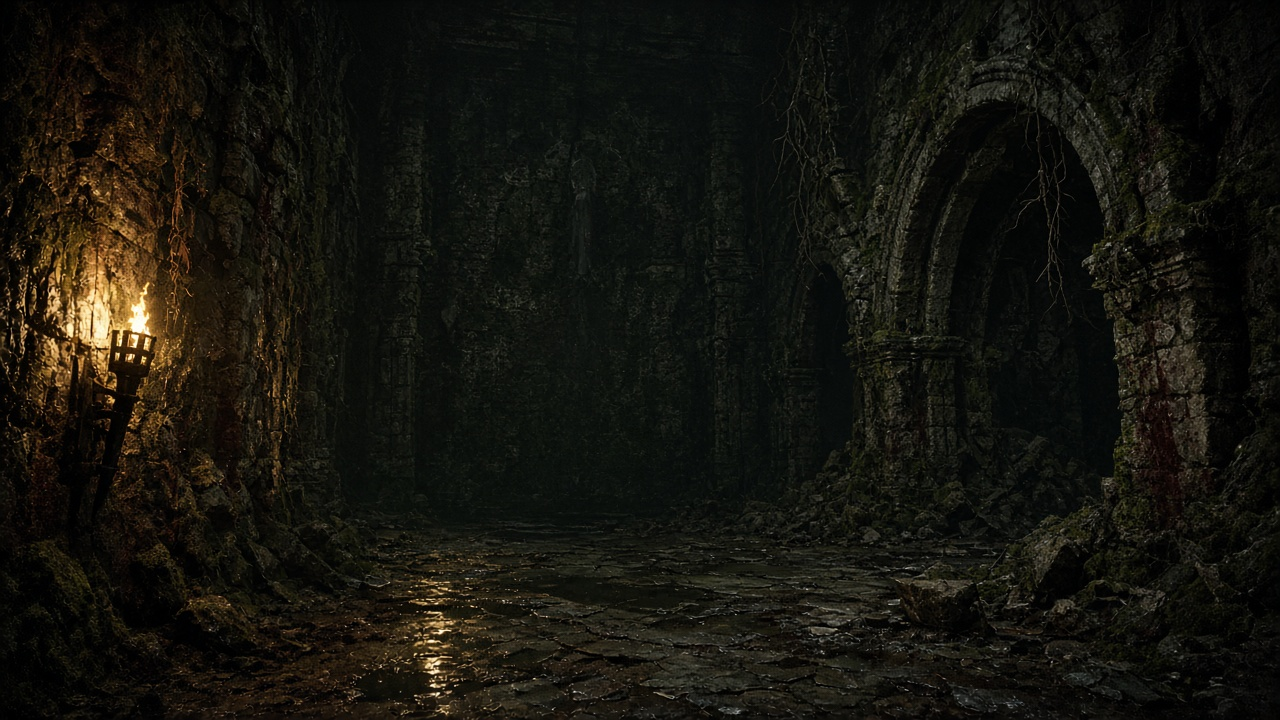
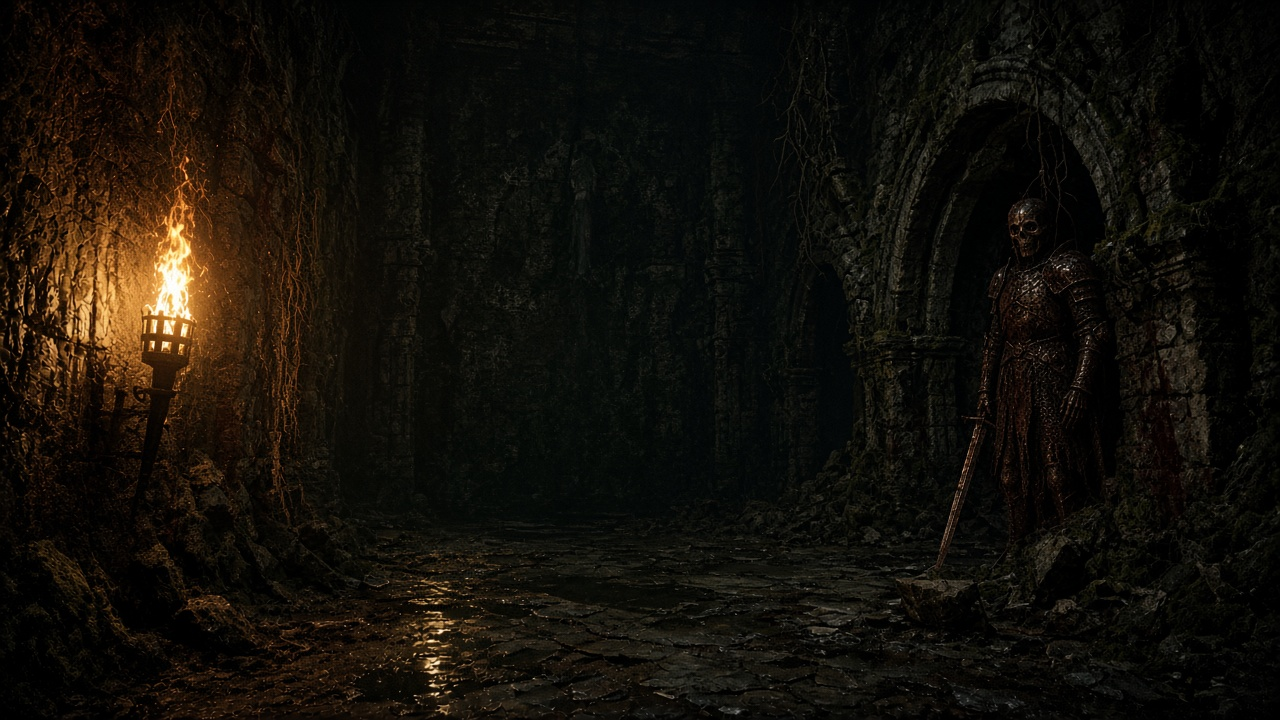
Put a knight in the chapel dark and make the torch live.
Flicker, wash, embers, smoke, and a glint in the sockets.

diff --git a/Hexwrought/styles.css b/Hexwrought/styles.css
@@ -22,10 +22,14 @@ body {
 }
 
 .world,
+.torch,
+.eyes,
 .grit,
 .scum,
 .vignette,
+.smoke,
 .embers,
+.dust,
 .corners {
   pointer-events: none;
   position: fixed !important;
@@ -36,10 +40,59 @@ body {
 .world {
   z-index: 0;
   background:
-    linear-gradient(180deg, rgba(8,9,6,.12) 0%, rgba(6,7,5,.35) 70%, rgba(5,6,4,.88) 100%),
-    url("./hexwrought-grounds.jpg") center 20% / cover no-repeat;
+    linear-gradient(180deg, rgba(8,9,6,.08) 0%, rgba(6,7,5,.22) 70%, rgba(5,6,4,.72) 100%),
+    url("./hexwrought-grounds.jpg") center 28% / cover no-repeat;
   background-attachment: fixed;
-  filter: contrast(1.08) saturate(0.9) brightness(0.95);
+  animation: hall 2.6s ease-in-out infinite;
+}
+
+.torch { z-index: 1; }
+.flame {
+  position: absolute;
+  left: 6.5%;
+  top: 26%;
+  width: min(24vw, 300px);
+  mix-blend-mode: screen;
+  opacity: 0.9;
+  animation: flare 0.16s infinite;
+  filter: saturate(1.35) brightness(1.25) contrast(1.1);
+}
+.wash {
+  position: absolute;
+  left: 0;
+  top: 8%;
+  width: 58vw;
+  height: 78vh;
+  background: radial-gradient(ellipse at 16% 40%, rgba(255, 150, 50, 0.42) 0%, rgba(255, 90, 20, 0.14) 26%, transparent 60%);
+  mix-blend-mode: screen;
+  animation: wash 0.21s infinite;
+}
+.lick {
+  position: absolute;
+  left: 10%;
+  top: 30%;
+  width: 18vw;
+  height: 28vh;
+  background: radial-gradient(circle, rgba(255, 220, 140, 0.55) 0%, rgba(255, 120, 30, 0.18) 38%, transparent 70%);
+  mix-blend-mode: screen;
+  filter: blur(8px);
+  animation: lick 0.13s infinite;
+}
+
+.eyes {
+  z-index: 1;
+  width: 70px;
+  height: 18px;
+  left: auto;
+  right: 27%;
+  top: 36%;
+  inset: auto;
+  background:
+    radial-gradient(circle at 22% 50%, rgba(255, 210, 130, 0.7) 0 18%, transparent 42%),
+    radial-gradient(circle at 78% 50%, rgba(255, 210, 130, 0.7) 0 18%, transparent 42%);
+  filter: blur(2px);
+  mix-blend-mode: screen;
+  animation: watch 5.4s ease-in-out infinite;
 }
 
 .grit {
@@ -79,6 +132,21 @@ body {
 .corners img:nth-child(3) { bottom: -4%; left: -4%; transform: scaleY(-1); }
 .corners img:nth-child(4) { bottom: -4%; right: -4%; transform: scale(-1); }
 
+.smoke { z-index: 3; }
+.smoke i {
+  position: absolute;
+  left: 14%;
+  top: 34%;
+  width: 90px;
+  height: 90px;
+  border-radius: 50%;
+  background: radial-gradient(circle, rgba(40, 32, 24, 0.35), transparent 70%);
+  filter: blur(18px);
+  animation: smoke 7s ease-out infinite;
+}
+.smoke i:nth-child(2) { left: 16%; animation-delay: 2.2s; width: 70px; height: 70px; }
+.smoke i:nth-child(3) { left: 12%; animation-delay: 4.4s; width: 110px; height: 110px; }
+
 .embers { z-index: 4; }
 .embers i {
   position: absolute;
@@ -87,26 +155,96 @@ body {
   border-radius: 50%;
   background: #f0c56a;
   box-shadow: 0 0 10px 3px rgba(224, 106, 40, 0.65);
-  animation: rise 11s linear infinite;
+  animation: rise 7.5s linear infinite;
   opacity: 0.7;
 }
-.embers i:nth-child(1) { left: 18%; bottom: 4%; animation-delay: 0s; }
-.embers i:nth-child(2) { left: 32%; bottom: 0; animation-delay: 2s; width: 2px; height: 2px; }
-.embers i:nth-child(3) { left: 48%; bottom: 8%; animation-delay: 4s; }
-.embers i:nth-child(4) { left: 61%; bottom: 2%; animation-delay: 1.5s; }
-.embers i:nth-child(5) { left: 73%; bottom: 6%; animation-delay: 5s; width: 2px; height: 2px; }
-.embers i:nth-child(6) { left: 12%; bottom: 10%; animation-delay: 7s; }
-.embers i:nth-child(7) { left: 84%; bottom: 3%; animation-delay: 3s; }
-.embers i:nth-child(8) { left: 41%; bottom: 12%; animation-delay: 8s; }
+.embers i:nth-child(1) { left: 15%; top: 48%; animation-delay: 0s; }
+.embers i:nth-child(2) { left: 17%; top: 52%; animation-delay: 0.6s; width: 2px; height: 2px; }
+.embers i:nth-child(3) { left: 13%; top: 50%; animation-delay: 1.2s; }
+.embers i:nth-child(4) { left: 19%; top: 46%; animation-delay: 1.8s; }
+.embers i:nth-child(5) { left: 16%; top: 54%; animation-delay: 2.4s; width: 2px; height: 2px; }
+.embers i:nth-child(6) { left: 12%; top: 49%; animation-delay: 3s; }
+.embers i:nth-child(7) { left: 21%; top: 51%; animation-delay: 3.6s; }
+.embers i:nth-child(8) { left: 14%; top: 56%; animation-delay: 4.2s; }
+.embers i:nth-child(9) { left: 18%; top: 44%; animation-delay: 4.8s; width: 2px; height: 2px; }
+.embers i:nth-child(10) { left: 11%; top: 53%; animation-delay: 5.4s; }
+.embers i:nth-child(11) { left: 22%; top: 47%; animation-delay: 6s; }
+.embers i:nth-child(12) { left: 32%; top: 70%; animation-delay: 1s; }
+.embers i:nth-child(13) { left: 48%; top: 78%; animation-delay: 2.8s; width: 2px; height: 2px; }
+.embers i:nth-child(14) { left: 70%; top: 62%; animation-delay: 5s; }
 
+.dust { z-index: 4; }
+.dust i {
+  position: absolute;
+  width: 2px;
+  height: 2px;
+  border-radius: 50%;
+  background: rgba(232, 215, 176, 0.55);
+  box-shadow: 0 0 6px rgba(232, 215, 176, 0.4);
+  animation: mote 16s linear infinite;
+}
+.dust i:nth-child(1) { left: 22%; top: 70%; animation-delay: 0s; }
+.dust i:nth-child(2) { left: 38%; top: 60%; animation-delay: 2s; }
+.dust i:nth-child(3) { left: 54%; top: 75%; animation-delay: 4s; }
+.dust i:nth-child(4) { left: 67%; top: 52%; animation-delay: 6s; }
+.dust i:nth-child(5) { left: 28%; top: 40%; animation-delay: 8s; }
+.dust i:nth-child(6) { left: 81%; top: 58%; animation-delay: 10s; }
+.dust i:nth-child(7) { left: 45%; top: 32%; animation-delay: 12s; }
+.dust i:nth-child(8) { left: 12%; top: 28%; animation-delay: 14s; }
+
+@keyframes hall {
+  0%, 100% { filter: contrast(1.08) saturate(1) brightness(1); }
+  35% { filter: contrast(1.12) saturate(1.1) brightness(1.07); }
+  62% { filter: contrast(1.05) saturate(0.94) brightness(0.93); }
+}
+@keyframes flare {
+  0% { transform: translate(-8%, -6%) scale(1, 1) rotate(-2deg); opacity: 0.82; }
+  25% { transform: translate(-6%, -10%) scale(1.08, 1.18) rotate(2deg); opacity: 1; }
+  50% { transform: translate(-10%, -4%) scale(0.9, 1.02) rotate(-1deg); opacity: 0.68; }
+  75% { transform: translate(-5%, -12%) scale(1.12, 1.22) rotate(1deg); opacity: 1; }
+  100% { transform: translate(-8%, -6%) scale(1.02, 1.08) rotate(-2deg); opacity: 0.9; }
+}
+@keyframes wash {
+  0%, 100% { opacity: 0.75; }
+  20% { opacity: 1; }
+  45% { opacity: 0.55; }
+  70% { opacity: 0.95; }
+}
+@keyframes lick {
+  0% { transform: scale(0.9); opacity: 0.5; }
+  40% { transform: scale(1.2); opacity: 1; }
+  100% { transform: scale(0.85); opacity: 0.4; }
+}
+@keyframes watch {
+  0%, 78%, 100% { opacity: 0.15; }
+  82% { opacity: 0.85; }
+  88% { opacity: 0.2; }
+  92% { opacity: 0.7; }
+}
+@keyframes smoke {
+  0% { transform: translate(0, 0) scale(0.7); opacity: 0; }
+  20% { opacity: 0.45; }
+  100% { transform: translate(30px, -220px) scale(1.8); opacity: 0; }
+}
 @keyframes rise {
-  0% { transform: translateY(0) scale(1); opacity: 0; }
-  12% { opacity: 0.8; }
-  100% { transform: translateY(-90vh) scale(0.4); opacity: 0; }
+  0% { transform: translateY(0) translateX(0) scale(1); opacity: 0; }
+  10% { opacity: 1; }
+  100% { transform: translateY(-70vh) translateX(18px) scale(0.3); opacity: 0; }
+}
+@keyframes mote {
+  0% { transform: translate(0, 0); opacity: 0; }
+  15% { opacity: 0.7; }
+  100% { transform: translate(40px, -50vh); opacity: 0; }
 }
 @keyframes drift {
   from { background-position: 0 0; }
   to { background-position: 520px 260px; }
+}
+
+@media (prefers-reduced-motion: reduce) {
+  .world, .flame, .wash, .lick, .eyes, .embers i, .dust i, .smoke i, .grit {
+    animation: none;
+  }
 }
 
 header, main, footer { position: relative; z-index: 5; }

diff --git a/Hexwrought/index.html b/Hexwrought/index.html
@@ -9,14 +9,22 @@
   <link rel="preconnect" href="https://fonts.googleapis.com">
   <link rel="preconnect" href="https://fonts.gstatic.com" crossorigin>
   <link href="https://fonts.googleapis.com/css2?family=Cinzel:wght@400;600;700&family=Cormorant+Garamond:ital,wght@0,500;0,600;1,500;1,600&display=swap" rel="stylesheet">
-  <link rel="stylesheet" href="./styles.css?v=6">
+  <link rel="stylesheet" href="./styles.css?v=7">
 </head>
 <body>
   <div class="world" aria-hidden="true"></div>
+  <div class="torch" aria-hidden="true">
+    <img class="flame" src="./hexwrought-flame.jpg" alt="">
+    <span class="wash"></span>
+    <span class="lick"></span>
+  </div>
+  <div class="eyes" aria-hidden="true"></div>
   <div class="grit" aria-hidden="true"></div>
   <div class="scum" aria-hidden="true"></div>
   <div class="vignette" aria-hidden="true"></div>
-  <div class="embers" aria-hidden="true"><i></i><i></i><i></i><i></i><i></i><i></i><i></i><i></i></div>
+  <div class="smoke" aria-hidden="true"><i></i><i></i><i></i></div>
+  <div class="embers" aria-hidden="true"><i></i><i></i><i></i><i></i><i></i><i></i><i></i><i></i><i></i><i></i><i></i><i></i><i></i><i></i></div>
+  <div class="dust" aria-hidden="true"><i></i><i></i><i></i><i></i><i></i><i></i><i></i><i></i></div>
   <div class="corners" aria-hidden="true">
     <img src="./hexwrought-ornament.jpg" alt="" width="180" height="180">
     <img src="./hexwrought-ornament.jpg" alt="" width="180" height="180">
